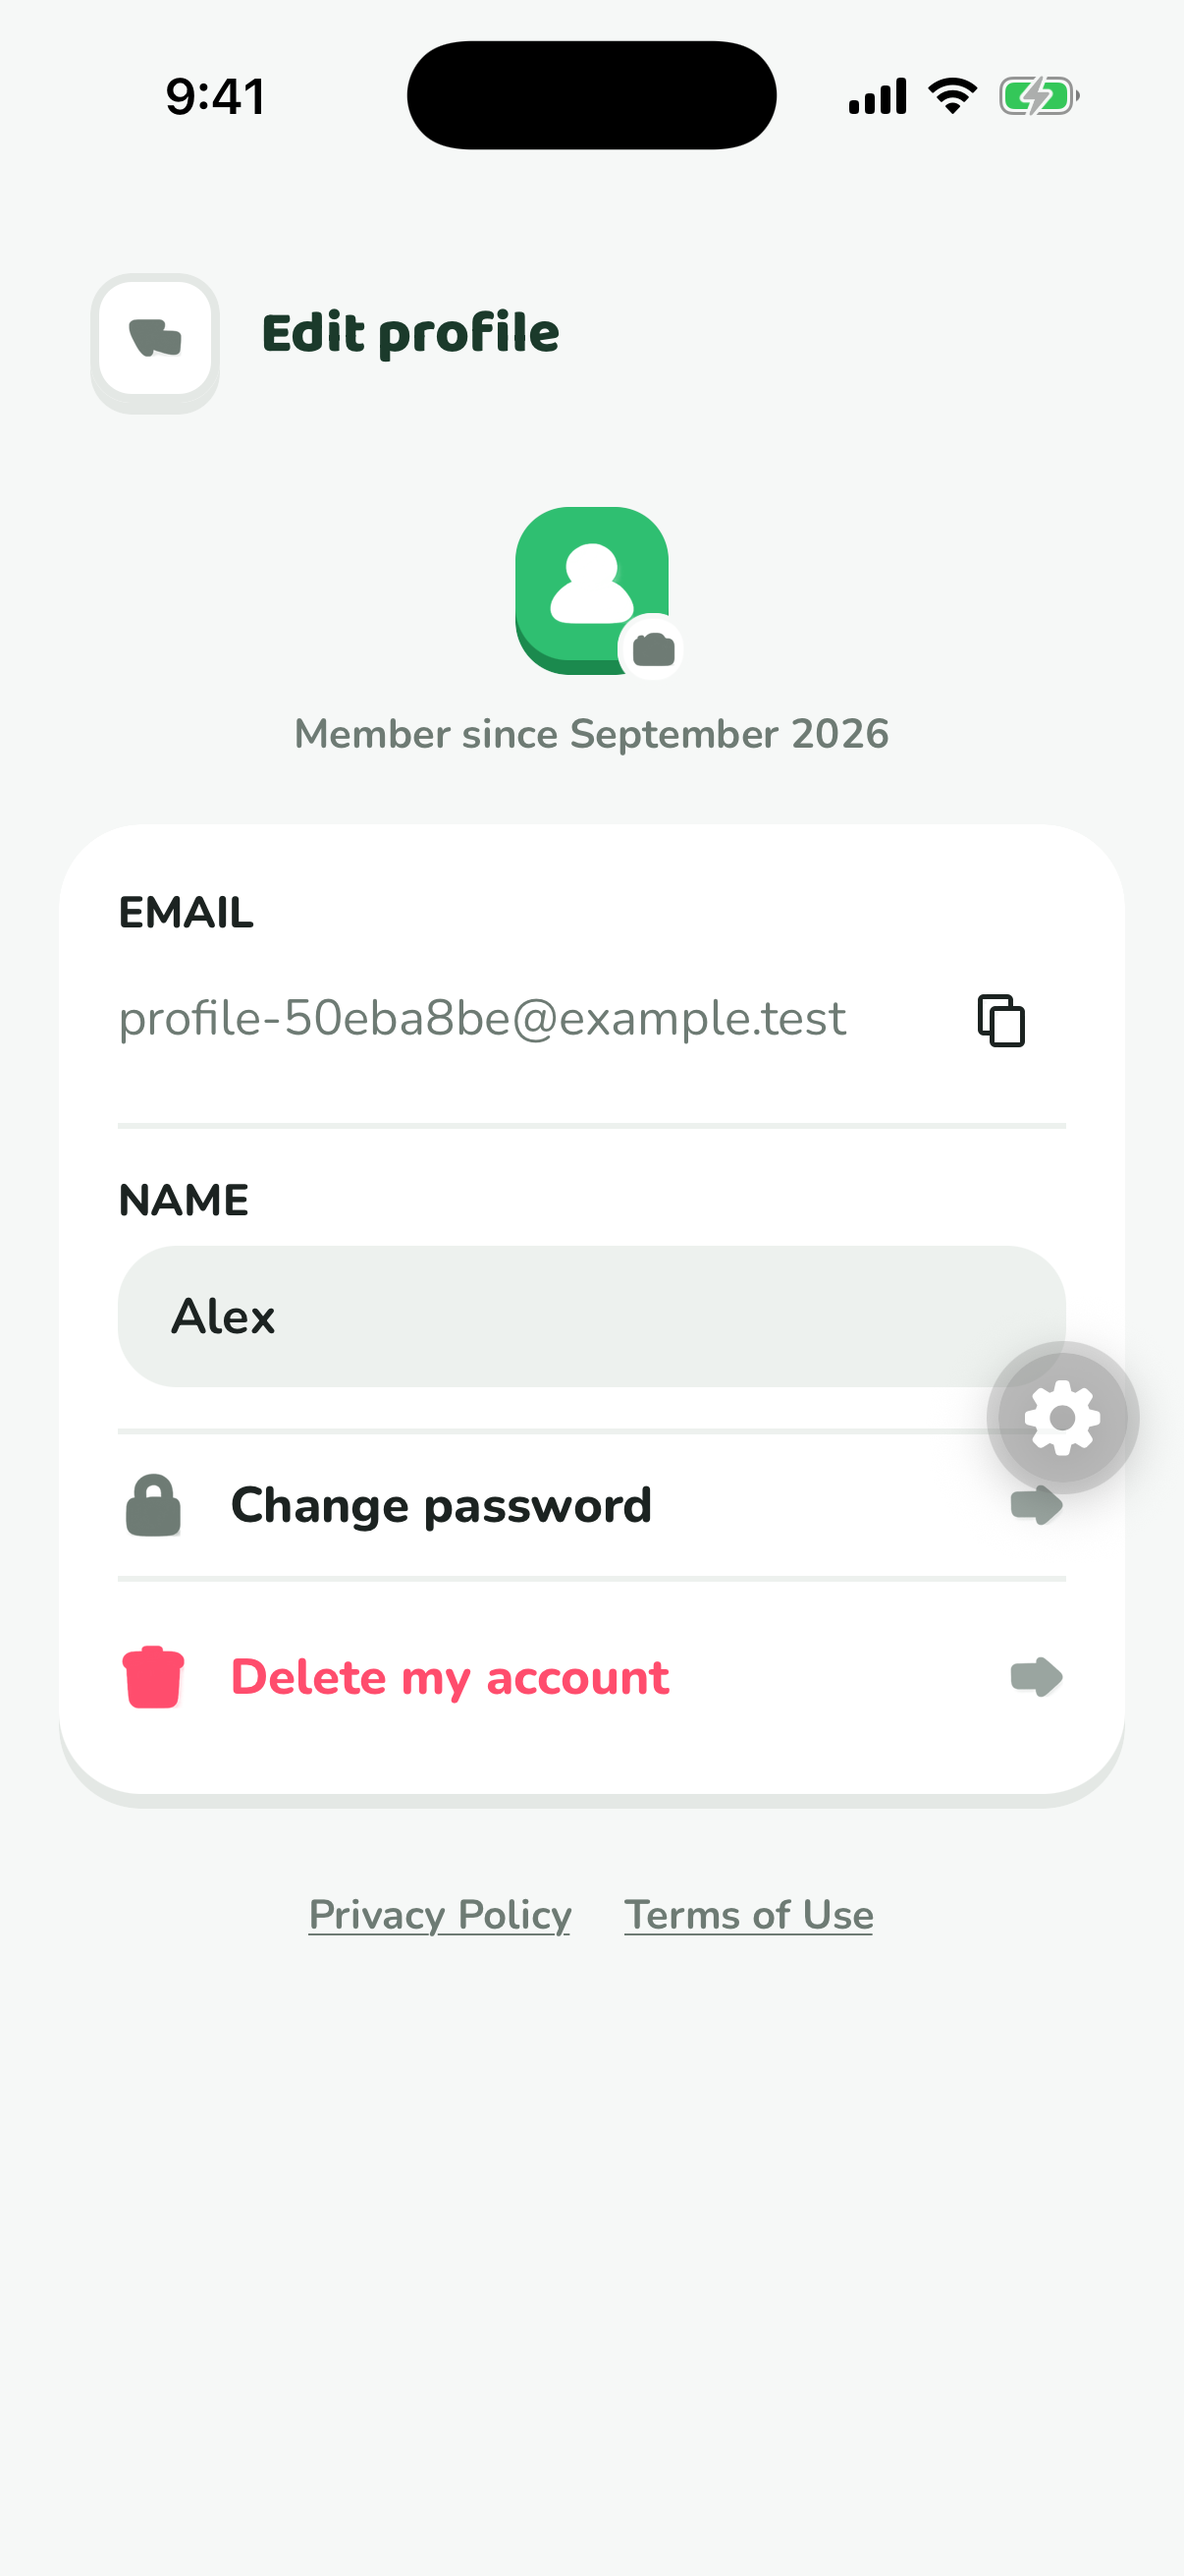
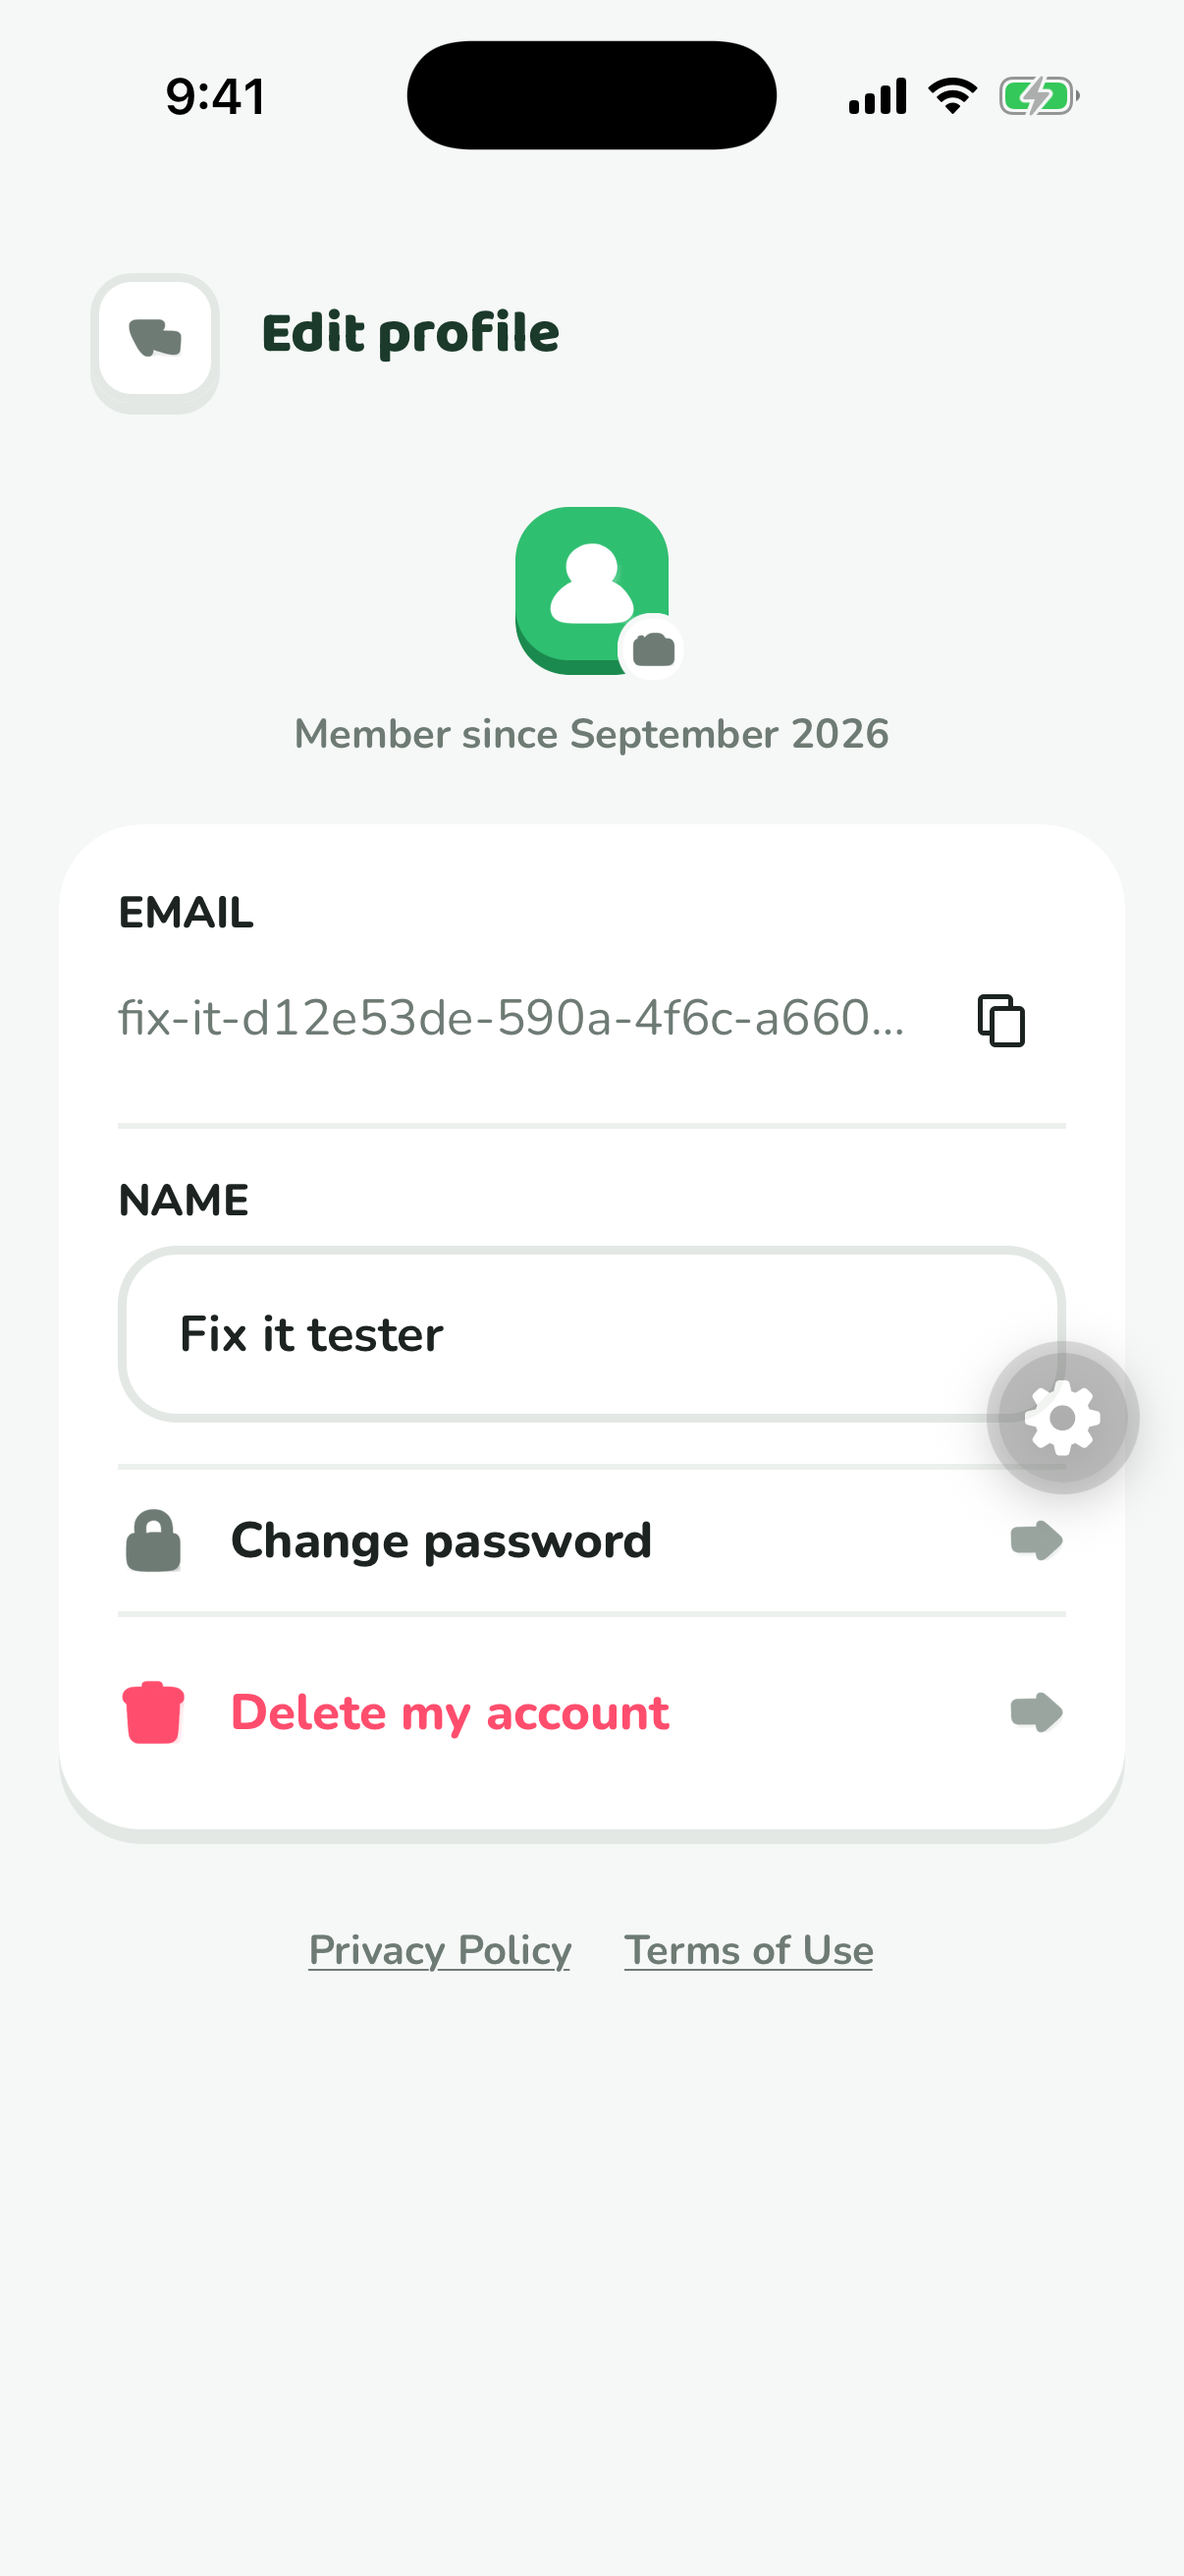
Restore the standard name input and truncate long emails

diff --git a/apps/mobile/app/settings/account.tsx b/apps/mobile/app/settings/account.tsx
@@ -188,6 +188,8 @@ export default function AccountScreen() {
               <Text
                 variant="body"
                 className="flex-1 text-muted"
+                numberOfLines={1}
+                ellipsizeMode="tail"
                 selectable
                 accessibilityLabel={t('onboarding:account.email')}
               >
@@ -217,7 +219,6 @@ export default function AccountScreen() {
             returnKeyType="done"
             onBlur={save}
             onSubmitEditing={() => Keyboard.dismiss()}
-            className="min-h-[48px] border-0 bg-track"
             error={submitted && !name.trim() ? t('profile:account.nameRequired') : undefined}
           />
         </View>

diff --git a/README.md b/README.md
@@ -1115,6 +1115,8 @@ profile creation date, falling back to the signed-in account date while the prof
 The inner page has a small avatar with a camera badge, membership date, and one
 card of rows: read-only email with Copy, editable name, Change password and a
 quiet delete action. The legal links stay below the card.
+The name uses the standard outlined input. Long emails truncate to one line;
+Copy always copies the full address.
 Names save on blur through the existing profile mutation. Blank names are rejected;
 failed saves keep the draft for another attempt when the field loses focus.
 The Back button waits for that save, and photo picking saves the name first so
